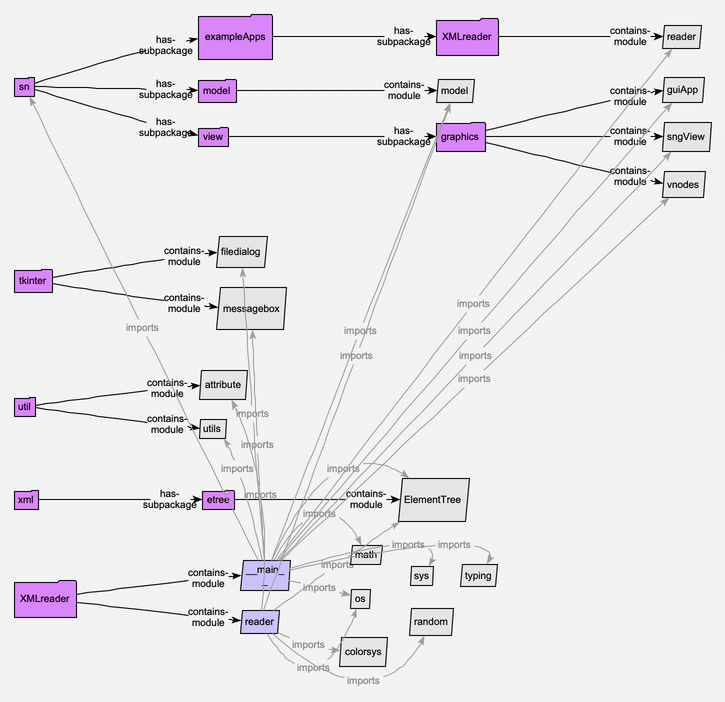
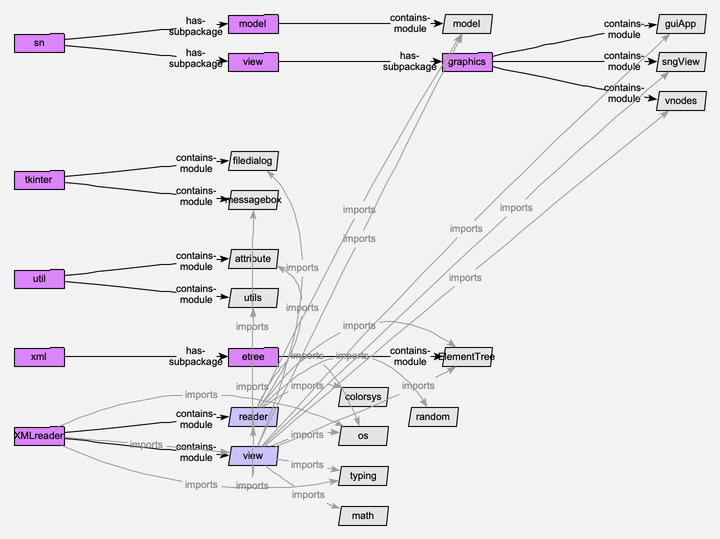
Docs: the pythonParser screenshot retaken, of the XMLreader plugin

diff --git a/sphinx/source/user/exampleApps.rst b/sphinx/source/user/exampleApps.rst
@@ -121,7 +121,8 @@ opens up for its classes and functions.
    :width: 560px
 
    What the Python parser makes of the XML reader's own code (imports not
-   followed): its modules, and the modules they import, in their packages.
+   followed): its two modules, *reader* and *view*, and the modules they
+   import, in their packages.
 
 Its objects know where their code is:
 
